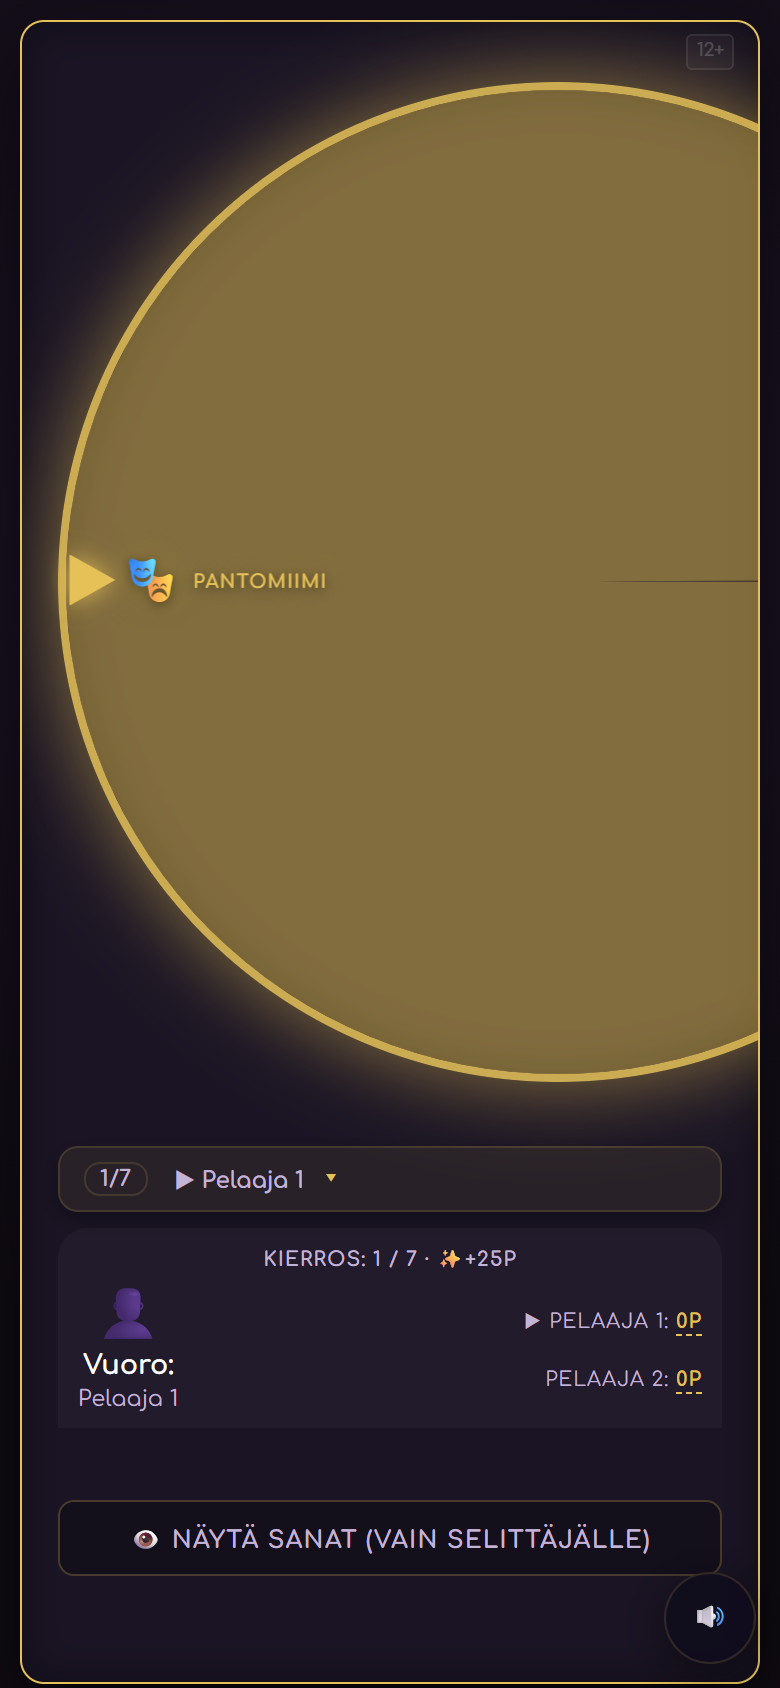
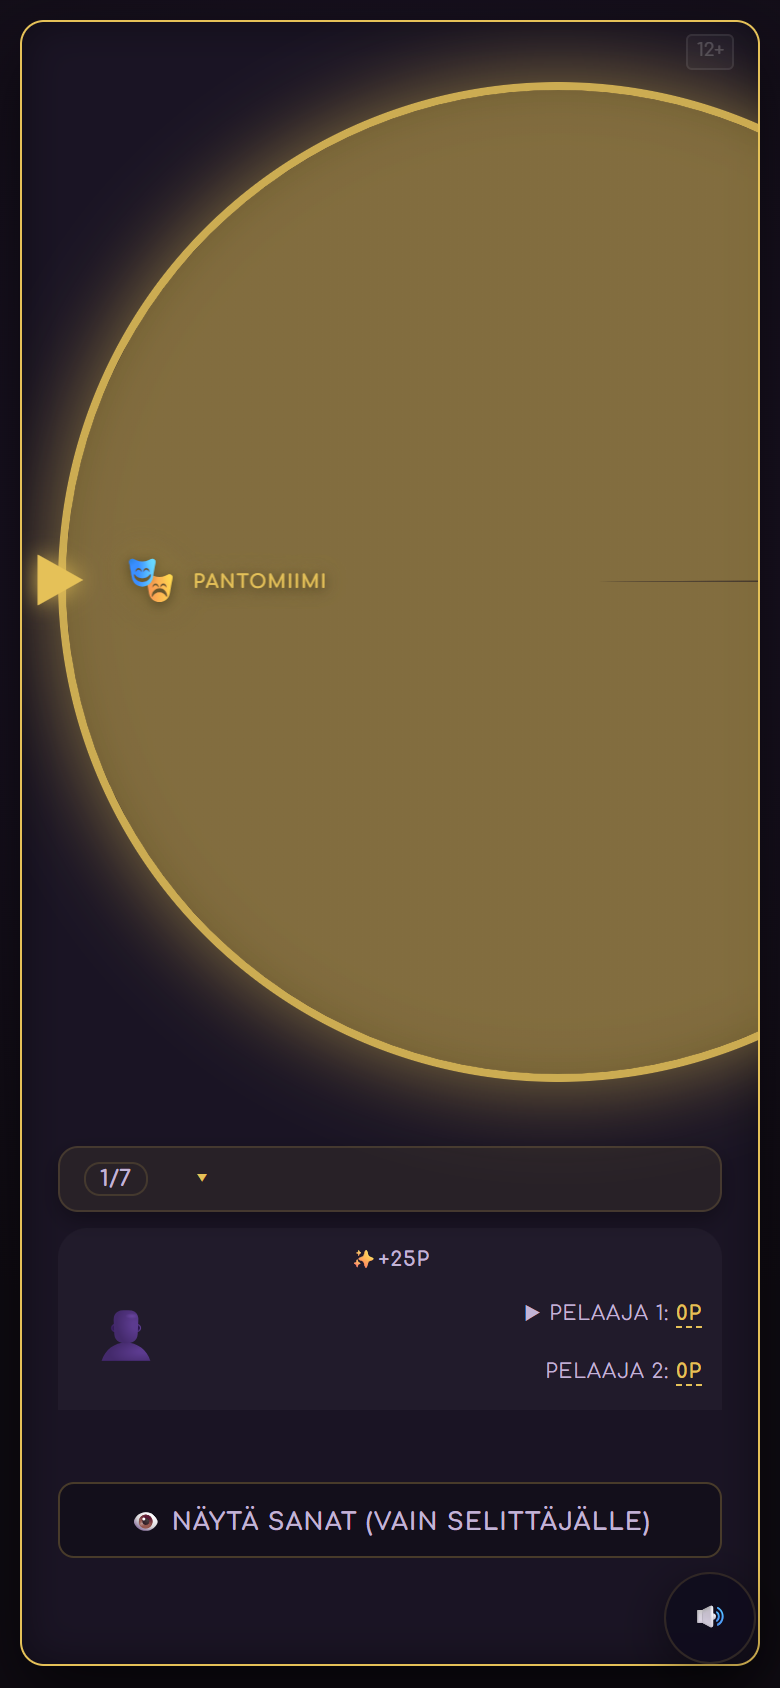
Dedup player name + round counter everywhere, pointer outside rim (task 21)
- Player name lives only in the scoreboard ▶ marker (scoreDisplay/ngScore):
  removed chipTurn text, "Vuoro: name" under avatar, and the ngExplainer
  "Selittää" line on the guest screen
- Round counter only in the chip badge (local) / ngRound (guest);
  #roundDisplay now shows just the bonus stake ✨+Zp (formatBonusCounter)
- .theme-drum-pointer moved outside the wheel rim (left:-12px) so sector
  emoji/labels are never covered during spin or at rest
- verify16 61/61, verify15 41, verify14 37, verify17 42, verify8 20,
  verify3 43 (+2 pre-existing emoji drift)

Generated with [Devin](https://devin.ai)

diff --git a/audit/tool/verify16.js b/audit/tool/verify16.js
@@ -62,6 +62,8 @@ const wheelState = (page, loaderId, wheelId, hubId) => evl(page, (l, w, h) => {
     const winEl = wh ? wh.querySelector('.theme-drum-item.winner') : null;
     const winLab = winEl ? winEl.querySelector('.drum-label') : null;
     const winLabRect = winLab ? winLab.getBoundingClientRect() : null;
+    const winTag = winEl ? winEl.querySelector('.drum-tag') : null;
+    const winTagRect = winTag ? winTag.getBoundingClientRect() : null;
     const ptr = ld ? ld.querySelector('.theme-drum-pointer') : null;
     const wr = wh ? wh.getBoundingClientRect() : null;
     const pr = ptr ? ptr.getBoundingClientRect() : null;
@@ -82,6 +84,7 @@ const wheelState = (page, loaderId, wheelId, hubId) => evl(page, (l, w, h) => {
         winnerRing: winEl ? getComputedStyle(winEl, '::after').content : 'n/a',
         winnerLabelColor: winLab ? getComputedStyle(winLab).color : null,
         winnerLabelHorizontal: winLabRect ? winLabRect.width > winLabRect.height : null,
+        tagClear: winTagRect && pr ? winTagRect.left > pr.right : null,
         tags,
         pointerLeft: pr && wr ? (pr.x + pr.width / 2) < (wr.x + wr.width / 2) : null,
         wheelBleeds: wr ? wr.right > document.documentElement.clientWidth : null
@@ -97,7 +100,9 @@ const panelState = (page) => evl(page, () => ({
     chipThemeDisplay: getComputedStyle(document.getElementById('chipTheme')).display,
     chipRoundVisible: getComputedStyle(document.getElementById('chipRound')).display !== 'none',
     chipTurnText: document.getElementById('chipTurn').textContent,
-    themeBlockDisplay: getComputedStyle(document.getElementById('themeBlock')).display
+    themeBlockDisplay: getComputedStyle(document.getElementById('themeBlock')).display,
+    scoreMarker: /▶/.test(document.getElementById('scoreDisplay').textContent),
+    roundLabel: document.getElementById('roundDisplay').textContent
 }));
 
 (async () => {
@@ -135,6 +140,7 @@ const panelState = (page) => evl(page, () => ({
         check('no winner ring (::after none)', ws.winnerRing === 'none', ws.winnerRing);
         check('winner label golden', ws.winnerLabelColor === 'rgb(229, 193, 88)', String(ws.winnerLabelColor));
         check('winner label horizontal under pointer', ws.winnerLabelHorizontal === true);
+        check('winner tag not under pointer', ws.tagClear === true);
         check('pointer at wheel left edge', ws.pointerLeft === true);
 
         let ps = await panelState(page);
@@ -143,7 +149,9 @@ const panelState = (page) => evl(page, () => ({
         check('Näytä sanat CTA visible while wheel rests', ps.btnDisplay !== 'none', ps.btnDisplay);
         check('chip visible (aria-controls ok)', await evl(page, () => document.getElementById('turnChip').getBoundingClientRect().height > 0));
         check('chip theme hidden during rest (only on wheel)', ps.chipThemeDisplay === 'none', ps.chipThemeDisplay);
-        check('chip keeps round+player during rest', ps.chipRoundVisible === true && /▶/.test(ps.chipTurnText), JSON.stringify(ps));
+        check('chip keeps round badge only (no player dup)', ps.chipRoundVisible === true && ps.chipTurnText === '', JSON.stringify(ps));
+        check('scoreboard has ▶ turn marker', ps.scoreMarker === true);
+        check('roundDisplay = bonus only (no Kierros dup)', /^✨\+\d+p$/.test(ps.roundLabel.trim()), ps.roundLabel);
 
         await tap(page, '#btnDisplayWords'); await sleep(600);
         ws = await wheelState(page, 'loader', 'drumWheel', 'drumHubName');

diff --git a/js/ui.js b/js/ui.js
@@ -100,14 +100,20 @@ const formatRoundCounter = () => {
     return `Kierros: ${currentRound} / ${totalTurns} · ✨+${v}p`;
 };
 
+// Paneelissa kierrosluku näkyy jo chipissä — täällä vain bonusvaiheen panos.
+const formatBonusCounter = () => {
+    const v = (typeof getBonusConfig === 'function') ? getBonusConfig().value : 25;
+    return `✨+${v}p`;
+};
+
 const updateTurnDisplay = () => {
     if (gamePlayers.length < 2) return;
 
-    document.getElementById('roundDisplay').textContent = formatRoundCounter();
+    document.getElementById('roundDisplay').textContent = formatBonusCounter();
     const avatarEl = document.getElementById('currentAvatar');
     if (avatarEl) avatarEl.textContent = gamePlayers[currentPlayerIndex].img || '';
 
-    document.getElementById('currentName').innerHTML = `Vuoro:<br><span>${gamePlayers[currentPlayerIndex].name}</span>`;
+    // Pelaajan nimi vain tulostaulussa — ei "Vuoro: Nimi" -kaksoiskappaletta
 
     // Tulostaulu: kaikki pelaajat/joukkueet (2, 3 tai tiimit)
     document.getElementById('scoreDisplay').innerHTML = gamePlayers
@@ -137,8 +143,7 @@ const updateTurnDisplay = () => {
             ? (themeImages[currentActiveTheme] || '🎭') : '🎭';
         chipT.textContent = currentActiveTheme ? `${emoji} ${currentActiveTheme.toUpperCase()}` : '🎭 …';
     }
-    const chipP = document.getElementById('chipTurn');
-    if (chipP) chipP.textContent = `▶ ${gamePlayers[currentPlayerIndex].name}`;
+    // chipTurn jätetään tyhjäksi: pelaajan nimi vain tulostaulussa (▶)
     const chipR = document.getElementById('chipRound');
     if (chipR) {
         const m = formatRoundCounter().match(/(\d+)\s*\/\s*(\d+)/);

diff --git a/audit/tool/verify14.js b/audit/tool/verify14.js
@@ -114,7 +114,7 @@ const listStats = (page) => evl(page, () => ({
         check('минимум 1 небонусное слово', st.notRare >= 1, st.notRare);
         check('бейдж +25p', st.badge.includes('+25p'), st.badge);
         check('хинт: koko sanakirjasta + +25p (verify4-parity)', /koko sanakirjasta/.test(st.hint) && /\+25p/.test(st.hint), st.hint);
-        check('индикатор раунда · ✨+25p', st.roundLabel.includes('· ✨+25p'), st.roundLabel);
+        check('индикатор бонуса ✨+25p (без Kierros-дубля)', st.roundLabel.includes('✨+25p') && !/Kierros/.test(st.roundLabel), st.roundLabel);
         check('currentBonusWords ⊆ списка', await evl(page, () =>
             currentBonusWords.length === 1 && currentBonusWords.every(w =>
                 [...document.querySelectorAll('#wordList li')].some(li => li.textContent.includes(w)))),
@@ -128,7 +128,7 @@ const listStats = (page) => evl(page, () => ({
         check('≥1 лёгкое слово остаётся', st.notRare >= 1, st.notRare);
         check('бейдж +100p', st.badge.includes('+100p'), st.badge);
         check('хинт +100p', /\+100p/.test(st.hint), st.hint);
-        check('индикатор раунда · ✨+100p', st.roundLabel.includes('· ✨+100p'), st.roundLabel);
+        check('индикатор бонуса ✨+100p (без Kierros-дубля)', st.roundLabel.includes('✨+100p') && !/Kierros/.test(st.roundLabel), st.roundLabel);
 
         // Phase 1 для полноты
         await setPhaseAndRegen(page, 6, 10); await sleep(400);

diff --git a/audit/tool/verify3.js b/audit/tool/verify3.js
@@ -125,7 +125,9 @@ const inkOn = async (pg, id) => pg.evaluate((i) => {
         await tap(A, '#btn'); await sleep(3400);
         check('B got theme PIIRTÄMINEN', await evl(B, () => document.getElementById('ngTheme').textContent.toUpperCase().includes('PIIRT')) &&
                                      await evl(C, () => document.getElementById('ngTheme').textContent.toUpperCase().includes('PIIRT')));
-        check('B guesser screen: explainer name shown', await evl(B, () => document.getElementById('ngExplainer').textContent.includes('Isanta')));
+        check('B guesser screen: explainer only via ngScore ▶ (no dup)', await evl(B, () =>
+            document.getElementById('ngExplainer') === null &&
+            /▶\s*Isanta/.test(document.getElementById('ngScore').textContent)));
         await tap(A, '#btnDisplayWords'); await sleep(600);
         check('A sees 5 words', await evl(A, () => document.querySelectorAll('#wordList li').length) === 5);
         check('B NEVER receives word list', await evl(B, () => document.querySelectorAll('#wordList li').length === 0));

diff --git a/index.html b/index.html
@@ -682,7 +682,7 @@
             <div id="ngTimerFill" style="height:100%; width:100%; background:linear-gradient(90deg,#27ae60,#a9dfbf);"></div>
         </div>
         <div id="ngTimerSec" style="display:none; text-align:right; font-size:11px; color:var(--text-muted); margin:0 2px 8px 0;"></div>
-        <div id="ngExplainer" style="text-align:center; color:var(--gold); font-weight:bold; font-size:15px; margin-bottom:10px;"></div>
+        <!-- Selittäjän nimi näkyy vain ngScore ▶ -merkissä — ei duplikaattia -->
         <div id="ngThemeBlock" style="display:none; text-align:center; padding:14px; border:1px solid var(--soft-border); border-radius:14px; background:rgba(255,255,255,0.03); margin-bottom:10px;">
             <small class="zone-badge-title">Selityksen ehto</small>
             <div id="ngTheme" class="theme-text"></div>

diff --git a/audit/tool/verify15.js b/audit/tool/verify15.js
@@ -100,7 +100,7 @@ const startGameAndRoll = async (page, weightId) => {
         check('aria-controls -> turnPanelBody', ps.controls === 'turnPanelBody', ps.controls);
         // Task 20: teema vain pyörällä levon aikana — chipissä teksti tallennettu mutta piilossa
         check('chip theme hidden during rest, textContent tracks', /PANTOMIIMI/i.test(ps.chipTheme) && ps.chipThemeDisplay === 'none', `${ps.chipTheme} ${ps.chipThemeDisplay}`);
-        check('chip shows current player', /▶/.test(ps.chipTurn) && ps.chipTurn.length > 2, ps.chipTurn);
+        check('chip has no player name (scoreboard ▶ only)', ps.chipTurn === '', ps.chipTurn);
         check('Näytä sanat CTA visible pre-open', ps.btnDisplay !== 'none', ps.btnDisplay);
 
         await tap(page, '#btnDisplayWords'); await sleep(500);

diff --git a/js/network.js b/js/network.js
@@ -575,10 +575,7 @@
             // Oman vuoron normaalinakyma: varmista etta kontrollit nakyvat oikein
             btn.style.display = currentActiveTheme ? 'none' : 'block';
         }
-        const cur = gamePlayers[currentPlayerIndex];
-        if (cur) {
-            $('ngExplainer').textContent = `🗣 Selittää: ${cur.displayName || cur.name}`;
-        }
+        // Selittäjän nimi vain tulostaulun ▶-merkissä — ei ngExplainer-kaksoiskappaletta
         $('ngRound').textContent = (typeof formatRoundCounter === 'function')
             ? formatRoundCounter()
             : `Kierros: ${currentRound} / ${totalTurns}`;

diff --git a/styles.css b/styles.css
@@ -3047,7 +3047,8 @@ body[data-net="room-guest"] .room-code-chip { display: inline-block; }
 }
 .theme-drum-pointer {
     position: absolute;
-    left: 4px;
+    /* Obodan ulkopuolella — kärki reunassa, ei sektoreiden/emojien päällä */
+    left: -12px;
     top: 50%;
     transform: translateY(-50%);
     font-size: 30px;

diff --git a/audit/AUDIT.md b/audit/AUDIT.md
@@ -826,3 +826,34 @@ body:has(.drum-rest) #themeBlock { display: none; }
 - verify17 — **42/42**, verify8 — **20/20** — регрессия зелёная.
 - Скриншот `wr-wheel-rest-expanded.png`: тема ровно ×1 (золотая подпись
   на секторе), чип «1/7 · ▶ Pelaaja 1», в панели нет «Selityksen ehto».
+
+## Task 21 — дедуп Pelaaja/1-7 везде + стрелка за ободом
+
+**Запрос**: имя игрока ×3 (чип `▶`, `Vuoro:`, скорборд `▶`), раунд ×2
+(чип-бейдж + `Kierros:`), стрелка перекрывает эмодзи-подпись победителя.
+
+### Каноничные места (решения пользователя)
+- Имя игрока → **только скорборд** (`scoreDisplay ▶`, `ngScore ▶`).
+- Раунд → **только `#chipRound`** (локал) и **`#ngRound`** (гость — его
+  единственная копия, полный `Kierros: X/Y · ✨+Zp` сохранён).
+- `Vuoro:`-блок → аватар + дебаффы (без текста).
+- `#ngExplainer` («🗣 Selittää: …») — удалён полностью.
+
+### Реализация
+- `js/ui.js`: `formatBonusCounter()` → `✨+Zp` для `#roundDisplay`
+  (без `Kierros:`); удалены записи `currentName` и `chipTurn`.
+- `js/network.js` + `index.html`: блок `#ngExplainer` удалён вместе
+  с сеттером.
+- `styles.css`: `.theme-drum-pointer { left:-12px }` — стрелка снаружи
+  обода, остриё у края; теги секторов не перекрываются (и в спине).
+- Чип при wheel-rest = `1/7 ▾` (тема на колесе, игрок в скорборде).
+
+### Проверка
+- verify16 — **61/61** (+3: tag не под стрелкой, ▶ в скорборде,
+  roundDisplay=✨-only; чип — round badge без игрока).
+- verify3 — 43 + 2 предсуществующих; новый чек: `ngScore ▶ Isanta` +
+  `ngExplainer` отсутствует.
+- verify14 — **37/37** (`✨+25p`/`✨+100p` без Kierros), verify15 — **41/41**,
+  verify17 — **42/42**, verify8 — **20/20**.
+- Скриншоты: `wr-wheel-rest-expanded.png` (имя ×1, 1/7 ×1, аватар-only),
+  `wr-wedge-multi.png` (стрелка за ободом).
